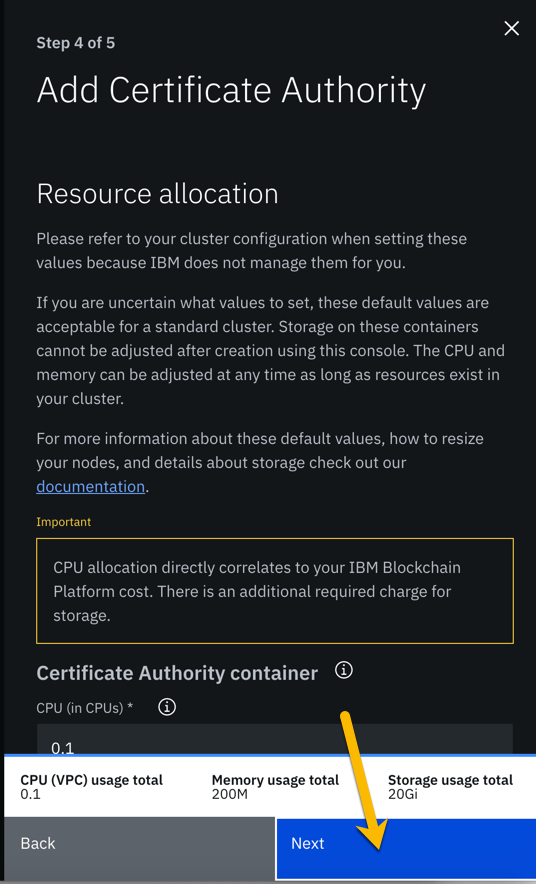
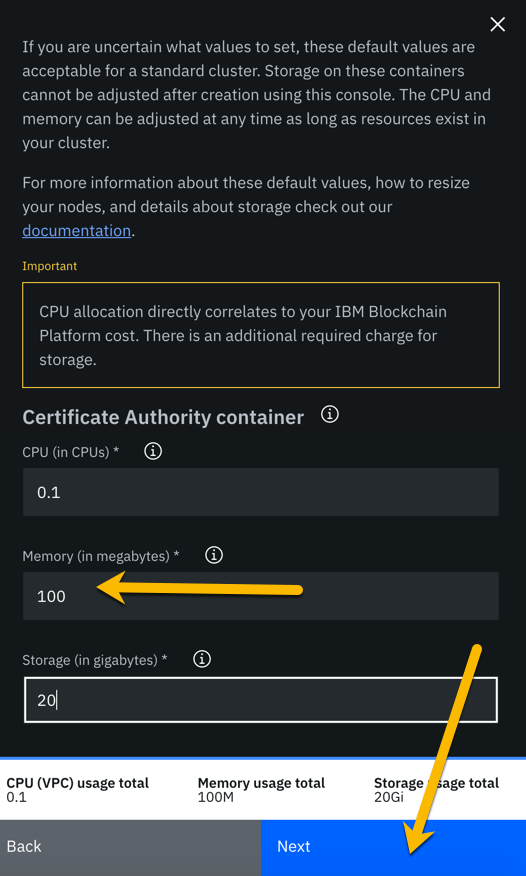
add resource allocation changes

Changed region(s): [[0.0, 0.0308, 1.0, 1.0], [0.943, 0.0, 0.9734, 0.0616]]

diff --git a/docs/ibpconsole.md b/docs/ibpconsole.md
@@ -47,22 +47,44 @@ The sections in this lab are as follows:
 Section 2: Log in to the IBM Blockchain Platform console
 ========================================================
 
-**Step 2.1:** Open a Firefox browser window or new tab and enter the unique URL, which will have been provided to you by the instructor, for your team's IBM Blockchain Platform console.
+!!! important
+        The lab environment is using self-signed SSL certificates and your browser will not trust them without explicit action on your part so part of this initial section on logging in involves establishing this trust. You will first need to go to the URL address specified for your infrastructure.  The IP address in the URL will be the same for each team, but each team will have a different port. 
+
+**Step 2.1:** Open a Firefox browser window or new tab and enter **https://192.168.22.81:*xxxxx* ** where *xxxxx* is the specific port for your team. This port will be provided to you by your instructor. The screenshots in the next few steps are for port 30039 but your port will likely be different:
+
+![image](images/ibpconsole/0006_ProxyIPBefore.png)
+
+**Step 2.2:** You will see a security warning that looks like below. Click the **Advanced** button:
+
+![image](images/ibpconsole/0007_ProxyIPBefore2.png)
+
+**Step 2.3:** You will see another security warning. Click the **Accept the Risk and Continue** button (what's the worse that could happen?):
+
+![image](images/ibpconsole/0008_ProxyIPBefore3.png)
+
+**Step 2.4:** You should see the quite verbose message in your browser window, **Up** (why mince words?):
+
+![image](images/ibpconsole/0009_ProxyIPUp.png)
+
+**Step 2.5:** Open a new tab or overwrite the URL from the previous step and enter the unique URL, which will have been provided to you by the instructor, for your team's IBM Blockchain Platform console.
 If you see a security warning after entering the URL, click the **Advanced** button, which is highlighted in the below screen snippet:
+
+!!! note
+        In most cases this URL will be the same as the URL from *Step 2.1*, only with the port number one less than the port number from that step.  But double-check this with the addresses provided to you by your instructor
 
 ![image](images/ibpconsole/0010_CertificateIssue.png)
 
-**Step 2.2:** The reason you are seeing these security messages is because of a self-signed certificate in our lab environment.
+**Step 2.6:** The reason you are seeing these security messages is because of a self-signed certificate in our lab environment.
 Go ahead and click on the **Proceed to 192.168.22.81 (unsafe)** link that is shown below:
 
 ![image](images/ibpconsole/0020_CertificateIssue.png)
 
-**Step 2.3:** Enter your team's userid and password, which will have been provided to you by the instructor, and click the *Login* button:
+**Step 2.7:** Enter your team's userid and password, which will have been provided to you by the instructor, and click the *Login* button:
 
 [//]: # (![image](images/ibpconsole/0030_Login.png)
 ![image](images/ibpconsole/0040_Login.png)
 
-**Step 2.4:** You may be presented with a welcome screen with dazzling interactive graphics. Move your cursor around a bit to take in the wonder, and then click the **Let's get started** button in the lower right corner.
+**Step 2.8:** You may be presented with a welcome screen with dazzling interactive graphics. Move your cursor around a bit to take in the wonder, and then click the **Let's get started** button in the lower right corner.
 
 ![image](images/ibpconsole/0043_WelcomeGraphics.png)
 
@@ -92,7 +114,13 @@ In relation to the diagram in the overview section that showed our finished netw
 
 ![image](images/ibpconsole/0080_AddCertificateAuthoritySideBar3.png)
 
-**Step 3.5:** Leave the *Resource allocation* settings unchanged, and click the **Next** button:
+**Step 3.5:** In the *Resource allocation* settings section, change the *Memory* setting from *200* to *100*, and click the **Next** button:
+
+!!! note
+       You may need to scroll down in the *Resource allocation* section to see the *Memory* field.
+
+!!! important
+       It is very important to change the *Resource allocation* settings throughout the lab to the values provided in these instructions, in order to ensure that each team has enough resources.
 
 ![image](images/ibpconsole/0090_AddCertificateAuthoritySideBar4.png)
 
@@ -243,7 +271,12 @@ Review the values your entered for correctness and then click the blue **Next** 
 
 ![image](images/ibpconsole/0310_AddOrg1PeerSidebar4.png)
 
-**Step 6.6:** Leave the *Resource allocation* settings unchanged and click the **Next** button:
+**Step 6.6:** In the *Resource allocation* settings section, make the following changes, and click the **Next** button:
+
+- In the *Peer container* section, change *CPU* to **0.1**
+- In the *Peer container* section, change *Memory* to **800**
+- In the *CouchDB container* section, change *CPU* to **0.1**
+- In the *CouchDB container* section, change *Memory* to **200**
 
 ![image](images/ibpconsole/0320_AddOrg1PeerSidebar5.png)
 
@@ -299,7 +332,7 @@ Our network will look like this at the completion of this section:
 
 ![image](images/ibpconsole/0400_AddOrderingCASidebar3.png)
 
-**Step 7.5:** Leave the *Resource allocation* settings unchanged, and click the **Next** button:
+**Step 7.5:** In the *Resource allocation* settings section, change the *Memory* setting from *200* to *100*, and click the **Next** button:
 
 ![image](images/ibpconsole/0410_AddOrderingCASidebar4.png)
 
@@ -444,7 +477,7 @@ Review the values your entered for correctness and then click the blue **Next** 
 
 ![image](images/ibpconsole/0630_AddOrdererSidebar4.png)
 
-**Step 10.6:** Leave the *Resource allocation* settings unchanged and click the **Next** button:
+**Step 10.6:** In the *Resource allocation* section, change *CPU* to **0.1** and change *Memory* to **200** and click the **Next** button:
 
 ![image](images/ibpconsole/0640_AddOrdererSidebar5.png)
 
@@ -569,7 +602,7 @@ We will define the second peer organization now.  The pattern is identical to wh
 
 ![image](images/ibpconsole/0840_AddOrg2CASidebar3.png)
 
-**Step 14.5:** Leave the *Resource allocation* settings unchanged, and click the **Next** button:
+**Step 14.5:** In the *Resource allocation* settings section, change the *Memory* setting from *200* to *100*, and click the **Next** button:
 
 ![image](images/ibpconsole/0850_AddOrg2CASidebar4.png)
 
@@ -710,7 +743,12 @@ Review the values your entered for correctness and then click the blue **Next** 
 
 ![image](images/ibpconsole/1070_AddOrg2PeerSidebar4.png)
 
-**Step 17.6:** Leave the *Resource allocation* settings unchanged and click the **Next** button:
+**Step 17.6:** In the *Resource allocation* settings section, make the following changes, and click the **Next** button:
+
+- In the *Peer container* section, change *CPU* to **0.1**
+- In the *Peer container* section, change *Memory* to **800**
+- In the *CouchDB container* section, change *CPU* to **0.1**
+- In the *CouchDB container* section, change *Memory* to **200**
 
 ![image](images/ibpconsole/1080_AddOrg2PeerSidebar5.png)
 
